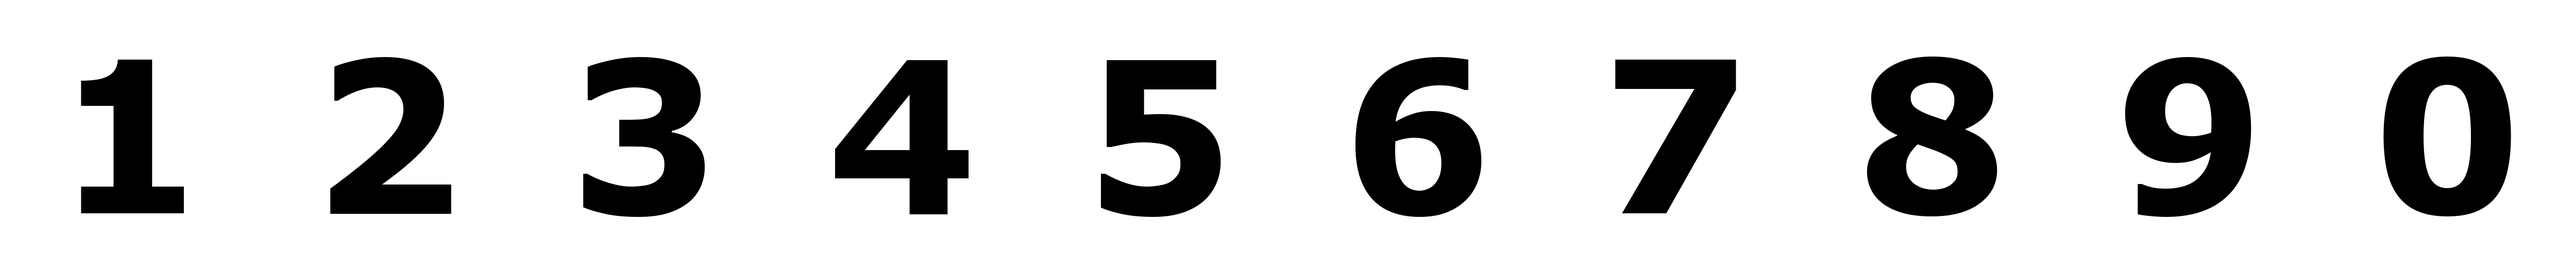
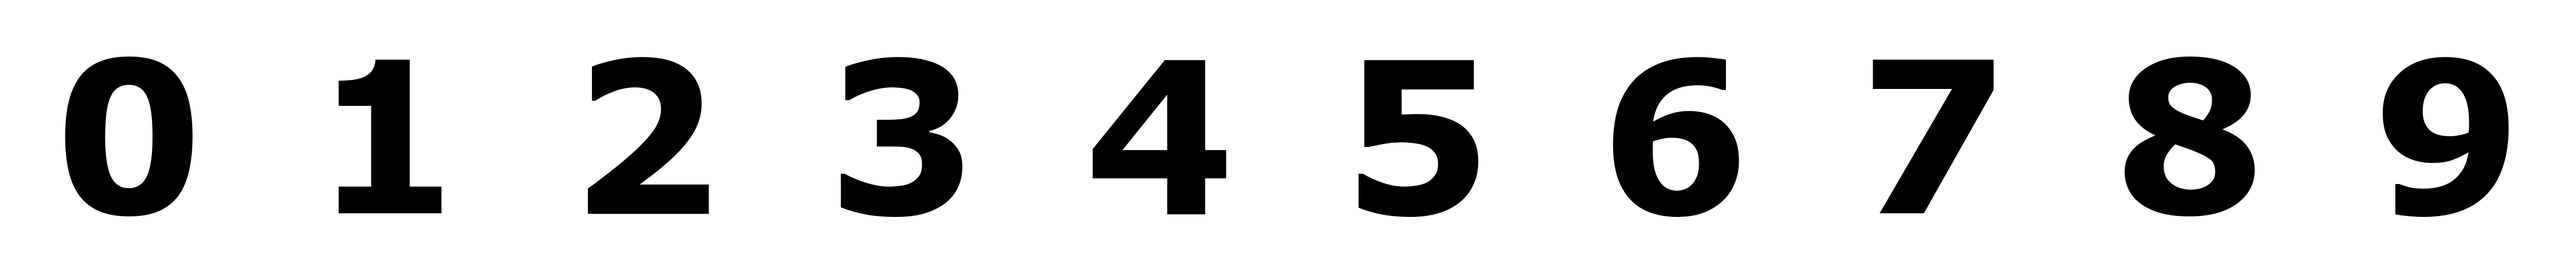
m

diff --git a/Project/GameProject/Game/Timer.cpp b/Project/GameProject/Game/Timer.cpp
@@ -1,18 +1,27 @@
 #include "Timer.h"
 #include"Task/Task.h"
-Timer::Timer() :Task(eType_Timer, (int)TaskPrio::Timer)
+Timer::Timer(const CVector2D& pos) :Task(eType_Timer, (int)TaskPrio::Timer)
 {
+    m_pos = pos;
 	m_img.Load("Image/Timer.png");
 }
 
 void Timer::Draw()
 {
     int score = 60;
+    while (score != 0) {
+        score--;
+        if(score == 0) {
+            score = 60;
+            break;
+        }
+    }
+   
     for (int i = 0; i < 2; i++, score /= 10) {
         int s = score % 10;
-        m_img.SetRect(0 * s, 0, 500 * s + 500, 32);
-        m_img.SetSize(500, 500);
-        m_img.SetPos(800 - 500 * i, 100);
+        m_img.SetRect(500 * s, 0, 500 * s + 500, 500);
+        m_img.SetSize(100, 100);
+        m_img.SetPos(930 - 60 * i, 150);
         m_img.Draw();
     }
 }

diff --git a/Project/GameProject/Game/Timer.h b/Project/GameProject/Game/Timer.h
@@ -4,7 +4,8 @@
 class Timer : public Task {
 public:
     CImage m_img;
+    CVector2D m_pos;
 public:
-    Timer();
+    Timer(const CVector2D& pos);
     void Draw();
 };

diff --git a/Project/GameProject/Game/EnemyHp.cpp b/Project/GameProject/Game/EnemyHp.cpp
@@ -15,8 +15,6 @@ EnemyHp::EnemyHp(const CVector2D& pos) :Task(eType_EnemyHp,(int)TaskPrio::Field)
 }
 void EnemyHp::Update()
 {
-	
-	
 }
 void EnemyHp::Draw()
 {
